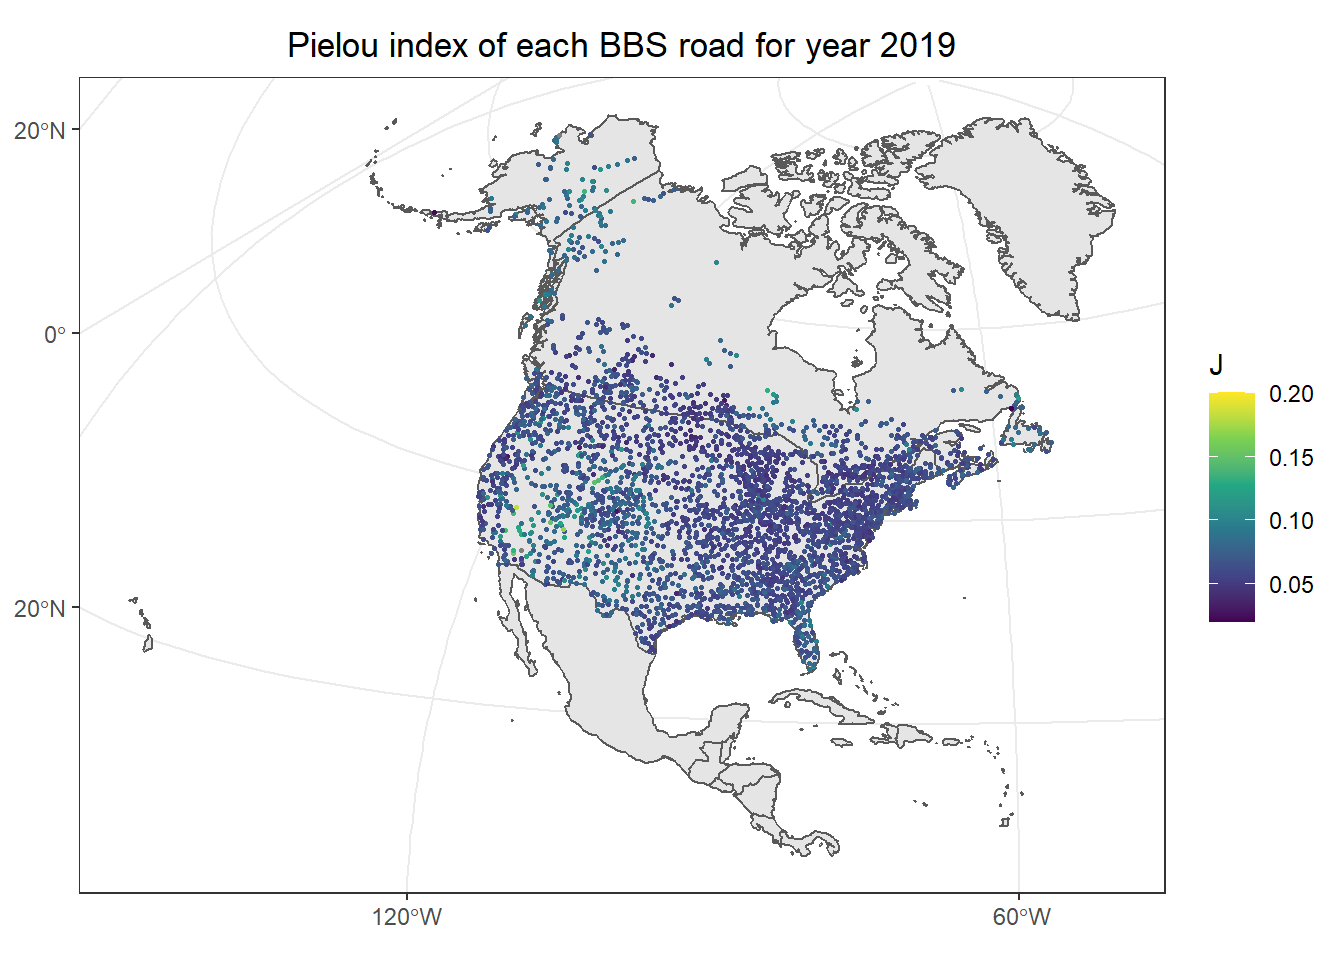
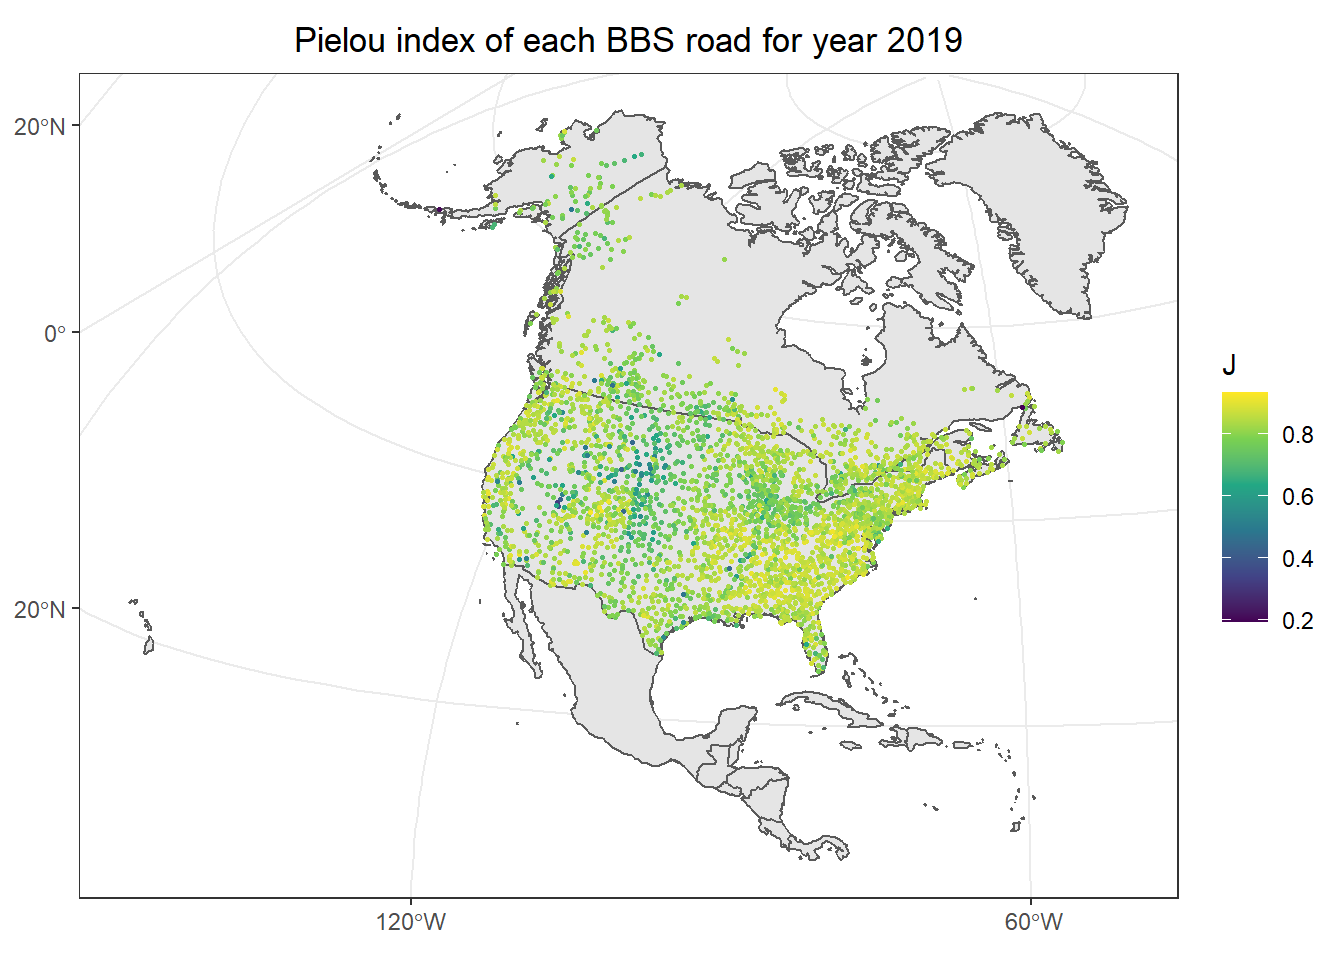
correcting Pielou's index

diff --git a/Practical_classes/Week5_modeling_patterns_biodiv/practical_week_5_correction.html b/Practical_classes/Week5_modeling_patterns_biodiv/practical_week_5_correction.html
@@ -780,8 +780,7 @@ CRS:           +proj=laea +lon_0=-68.91 +lat_0=1.28 +datum=WGS84 +units=m +no_de
 <p>The relationship between the target and the predictors has a form of a linear function:</p>
 <p><span class="math display">\[y = \beta _1x_1 + \beta _2x_2 \ldots \beta _nx_n + \beta _0\]</span></p>
 <p>With <span class="math inline">\(n\)</span> the number of covariates. Thus, this equation can be represented in an (n+1)-dimensional space (called an hyperspace when <span class="math inline">\(n+1 &gt; 3\)</span>). Moreover, the values of the <span class="math inline">\(\beta\)</span>s will indicate both the sign and the strenght of the relationship (<em>e.g.</em> <span class="math inline">\(\beta_1\)</span> will show if there is a negative/positive influence of <span class="math inline">\(x_1\)</span> on <span class="math inline">\(y\)</span>). The goal of fitting a linear regression (but also of most of the machine learning algorithms) is to find the hyperplane which fits the most to <span class="math inline">\(y\)</span> (<em>i.e.</em> which explains most of its variance). In machine learning, you do so by minimizing a <em>loss function</em>. The loss function for a linear regression is called the <strong>Residual Sum of Square</strong> (<em>i.e.&nbsp;RSS</em>).</p>
-<p><span class="math display">\[RSS = \sum _{i = 1}^j (y_i - \hat y_i)^2\]</span></p>
-<p>with <span class="math inline">\(j\)</span> the number of observations in your dataset. Here, we will use weather data as covariates (<em>i.e.</em> <span class="math inline">\(x_1\ldots x_n\)</span>) in order to predict the species richness for year 2019 (<span class="math inline">\(y\)</span>). Weather data is stored in the <code>weather.csv</code> file.</p>
+<p><span class="math display">\[RSS = \sum _{i = 1}^j (y_i - \hat y_i)^2\]</span> with <span class="math inline">\(j\)</span> the number of observations in your dataset. Here, we will use weather data as covariates (<em>i.e.</em> <span class="math inline">\(x_1\ldots x_n\)</span>) in order to predict the species richness for year 2019 (<span class="math inline">\(y\)</span>). Weather data is stored in the <code>weather.csv</code> file.</p>
 <div class="cell">
 <div class="sourceCode cell-code" id="cb12"><pre class="sourceCode r code-with-copy"><code class="sourceCode r"><span id="cb12-1"><a href="#cb12-1" aria-hidden="true" tabindex="-1"></a>weather <span class="ot">&lt;-</span> <span class="fu">read_csv</span>(<span class="st">"data/weather.csv"</span>)</span></code><button title="Copy to Clipboard" class="code-copy-button"><i class="bi"></i></button></pre></div>
 </div>
@@ -1281,11 +1280,11 @@ F-statistic: 11.22 on 15 and 3223 DF,  p-value: &lt; 2.2e-16</code></pre>
 </ul>
 <p><strong>Bonus:</strong> as said above, Shannon index is a summary of species richness and relative abundances. The latter can also be called <strong>evenness</strong>. Several ways to compute the evenness exist (<em>e.g.</em> gini index, Pielou index…). Here we will use the Pielou index <span class="math inline">\(J\)</span>, which formal definition is:</p>
 <p><span class="math display">\[J = \frac{H}{log(R)}\]</span></p>
-<p>Using the vegan package, you can compute it from the Shannon index <code>H</code> that you created just before as follow <code>J &lt;- H/specnumber(abundance2019)</code></p>
+<p>Using the vegan package, you can compute it from the Shannon index <code>H</code> that you created just before as follow <code>J &lt;- H/log(specnumber(abundance2019))</code></p>
 <p>Now, repeat the same task as above for the evenness index. Especially, map it and compare it to species richness and Shannon index.</p>
 <div class="cell">
 <div class="sourceCode cell-code" id="cb42"><pre class="sourceCode r code-with-copy"><code class="sourceCode r"><span id="cb42-1"><a href="#cb42-1" aria-hidden="true" tabindex="-1"></a><span class="co">#" Compute evenness</span></span>
-<span id="cb42-2"><a href="#cb42-2" aria-hidden="true" tabindex="-1"></a>J <span class="ot">&lt;-</span> h<span class="fl">.2019</span><span class="sc">/</span><span class="fu">specnumber</span>(abundance2019)</span>
+<span id="cb42-2"><a href="#cb42-2" aria-hidden="true" tabindex="-1"></a>J <span class="ot">&lt;-</span> h<span class="fl">.2019</span><span class="sc">/</span><span class="fu">log</span>(<span class="fu">specnumber</span>(abundance2019))</span>
 <span id="cb42-3"><a href="#cb42-3" aria-hidden="true" tabindex="-1"></a></span>
 <span id="cb42-4"><a href="#cb42-4" aria-hidden="true" tabindex="-1"></a><span class="do">###########</span></span>
 <span id="cb42-5"><a href="#cb42-5" aria-hidden="true" tabindex="-1"></a><span class="do">## Create a dataframe from the evenness vector</span></span>
@@ -1307,7 +1306,7 @@ F-statistic: 11.22 on 15 and 3223 DF,  p-value: &lt; 2.2e-16</code></pre>
 <span id="cb42-21"><a href="#cb42-21" aria-hidden="true" tabindex="-1"></a><span class="fu">ggplot</span>()<span class="sc">+</span></span>
 <span id="cb42-22"><a href="#cb42-22" aria-hidden="true" tabindex="-1"></a>  <span class="fu">geom_sf</span>(<span class="at">data =</span> countries_shp)<span class="sc">+</span></span>
 <span id="cb42-23"><a href="#cb42-23" aria-hidden="true" tabindex="-1"></a>  <span class="fu">geom_sf</span>(<span class="at">data =</span> <span class="fu">na.omit</span>(routes_shp), <span class="fu">aes</span>(<span class="at">color =</span> J), <span class="at">size =</span> .<span class="dv">5</span>)<span class="sc">+</span></span>
-<span id="cb42-24"><a href="#cb42-24" aria-hidden="true" tabindex="-1"></a>  <span class="fu">scale_color_viridis_c</span>(<span class="at">limits =</span> <span class="fu">c</span>(<span class="fu">min</span>(J), .<span class="dv">2</span>))<span class="sc">+</span></span>
+<span id="cb42-24"><a href="#cb42-24" aria-hidden="true" tabindex="-1"></a>  <span class="fu">scale_color_viridis_c</span>()<span class="sc">+</span></span>
 <span id="cb42-25"><a href="#cb42-25" aria-hidden="true" tabindex="-1"></a>  <span class="fu">ggtitle</span>(<span class="st">"Pielou index of each BBS road for year 2019"</span>)<span class="sc">+</span></span>
 <span id="cb42-26"><a href="#cb42-26" aria-hidden="true" tabindex="-1"></a>  <span class="fu">theme_bw</span>()<span class="sc">+</span></span>
 <span id="cb42-27"><a href="#cb42-27" aria-hidden="true" tabindex="-1"></a>  <span class="fu">theme</span>(<span class="at">plot.title =</span> <span class="fu">element_text</span>(<span class="at">hjust =</span> .<span class="dv">5</span>))</span></code><button title="Copy to Clipboard" class="code-copy-button"><i class="bi"></i></button></pre></div>

diff --git a/Practical_classes/Week5_modeling_patterns_biodiv/practical_week_5.html b/Practical_classes/Week5_modeling_patterns_biodiv/practical_week_5.html
@@ -769,8 +769,7 @@ CRS:           +proj=laea +lon_0=-68.91 +lat_0=1.28 +datum=WGS84 +units=m +no_de
 <p>The relationship between the target and the predictors has a form of a linear function:</p>
 <p><span class="math display">\[y = \beta _1x_1 + \beta _2x_2 \ldots \beta _nx_n + \beta _0\]</span></p>
 <p>With <span class="math inline">\(n\)</span> the number of covariates. Thus, this equation can be represented in an (n+1)-dimensional space (called an hyperspace when <span class="math inline">\(n+1 &gt; 3\)</span>). Moreover, the values of the <span class="math inline">\(\beta\)</span>s will indicate both the sign and the strenght of the relationship (<em>e.g.</em> <span class="math inline">\(\beta_1\)</span> will show if there is a negative/positive influence of <span class="math inline">\(x_1\)</span> on <span class="math inline">\(y\)</span>). The goal of fitting a linear regression (but also of most of the machine learning algorithms) is to find the hyperplane which fits the most to <span class="math inline">\(y\)</span> (<em>i.e.</em> which explains most of its variance). In machine learning, you do so by minimizing a <em>loss function</em>. The loss function for a linear regression is called the <strong>Residual Sum of Square</strong> (<em>i.e.&nbsp;RSS</em>).</p>
-<p><span class="math display">\[RSS = \sum _{i = 1}^j (y_i - \hat y_i)^2\]</span></p>
-<p>with <span class="math inline">\(j\)</span> the number of observations in your dataset. Here, we will use weather data as covariates (<em>i.e.</em> <span class="math inline">\(x_1\ldots x_n\)</span>) in order to predict the species richness for year 2019 (<span class="math inline">\(y\)</span>). Weather data is stored in the <code>weather.csv</code> file.</p>
+<p><span class="math display">\[RSS = \sum _{i = 1}^j (y_i - \hat y_i)^2\]</span> with <span class="math inline">\(j\)</span> the number of observations in your dataset. Here, we will use weather data as covariates (<em>i.e.</em> <span class="math inline">\(x_1\ldots x_n\)</span>) in order to predict the species richness for year 2019 (<span class="math inline">\(y\)</span>). Weather data is stored in the <code>weather.csv</code> file.</p>
 <div class="cell">
 <div class="sourceCode cell-code" id="cb10"><pre class="sourceCode r code-with-copy"><code class="sourceCode r"><span id="cb10-1"><a href="#cb10-1" aria-hidden="true" tabindex="-1"></a>weather <span class="ot">&lt;-</span> <span class="fu">read_csv</span>(<span class="st">"data/weather.csv"</span>)</span></code><button title="Copy to Clipboard" class="code-copy-button"><i class="bi"></i></button></pre></div>
 </div>
@@ -1223,7 +1222,7 @@ F-statistic: 11.22 on 15 and 3223 DF,  p-value: &lt; 2.2e-16</code></pre>
 </ul>
 <p><strong>Bonus:</strong> as said above, Shannon index is a summary of species richness and relative abundances. The latter can also be called <strong>evenness</strong>. Several ways to compute the evenness exist (<em>e.g.</em> gini index, Pielou index…). Here we will use the Pielou index <span class="math inline">\(J\)</span>, which formal definition is:</p>
 <p><span class="math display">\[J = \frac{H}{log(R)}\]</span></p>
-<p>Using the vegan package, you can compute it from the Shannon index <code>H</code> that you created just before as follow <code>J &lt;- H/specnumber(abundance2019)</code></p>
+<p>Using the vegan package, you can compute it from the Shannon index <code>H</code> that you created just before as follow <code>J &lt;- H/log(specnumber(abundance2019))</code></p>
 <p>Now, repeat the same task as above for the evenness index. Especially, map it and compare it to species richness and Shannon index.</p>
 <div class="cell">
 <div class="cell-output-display">
